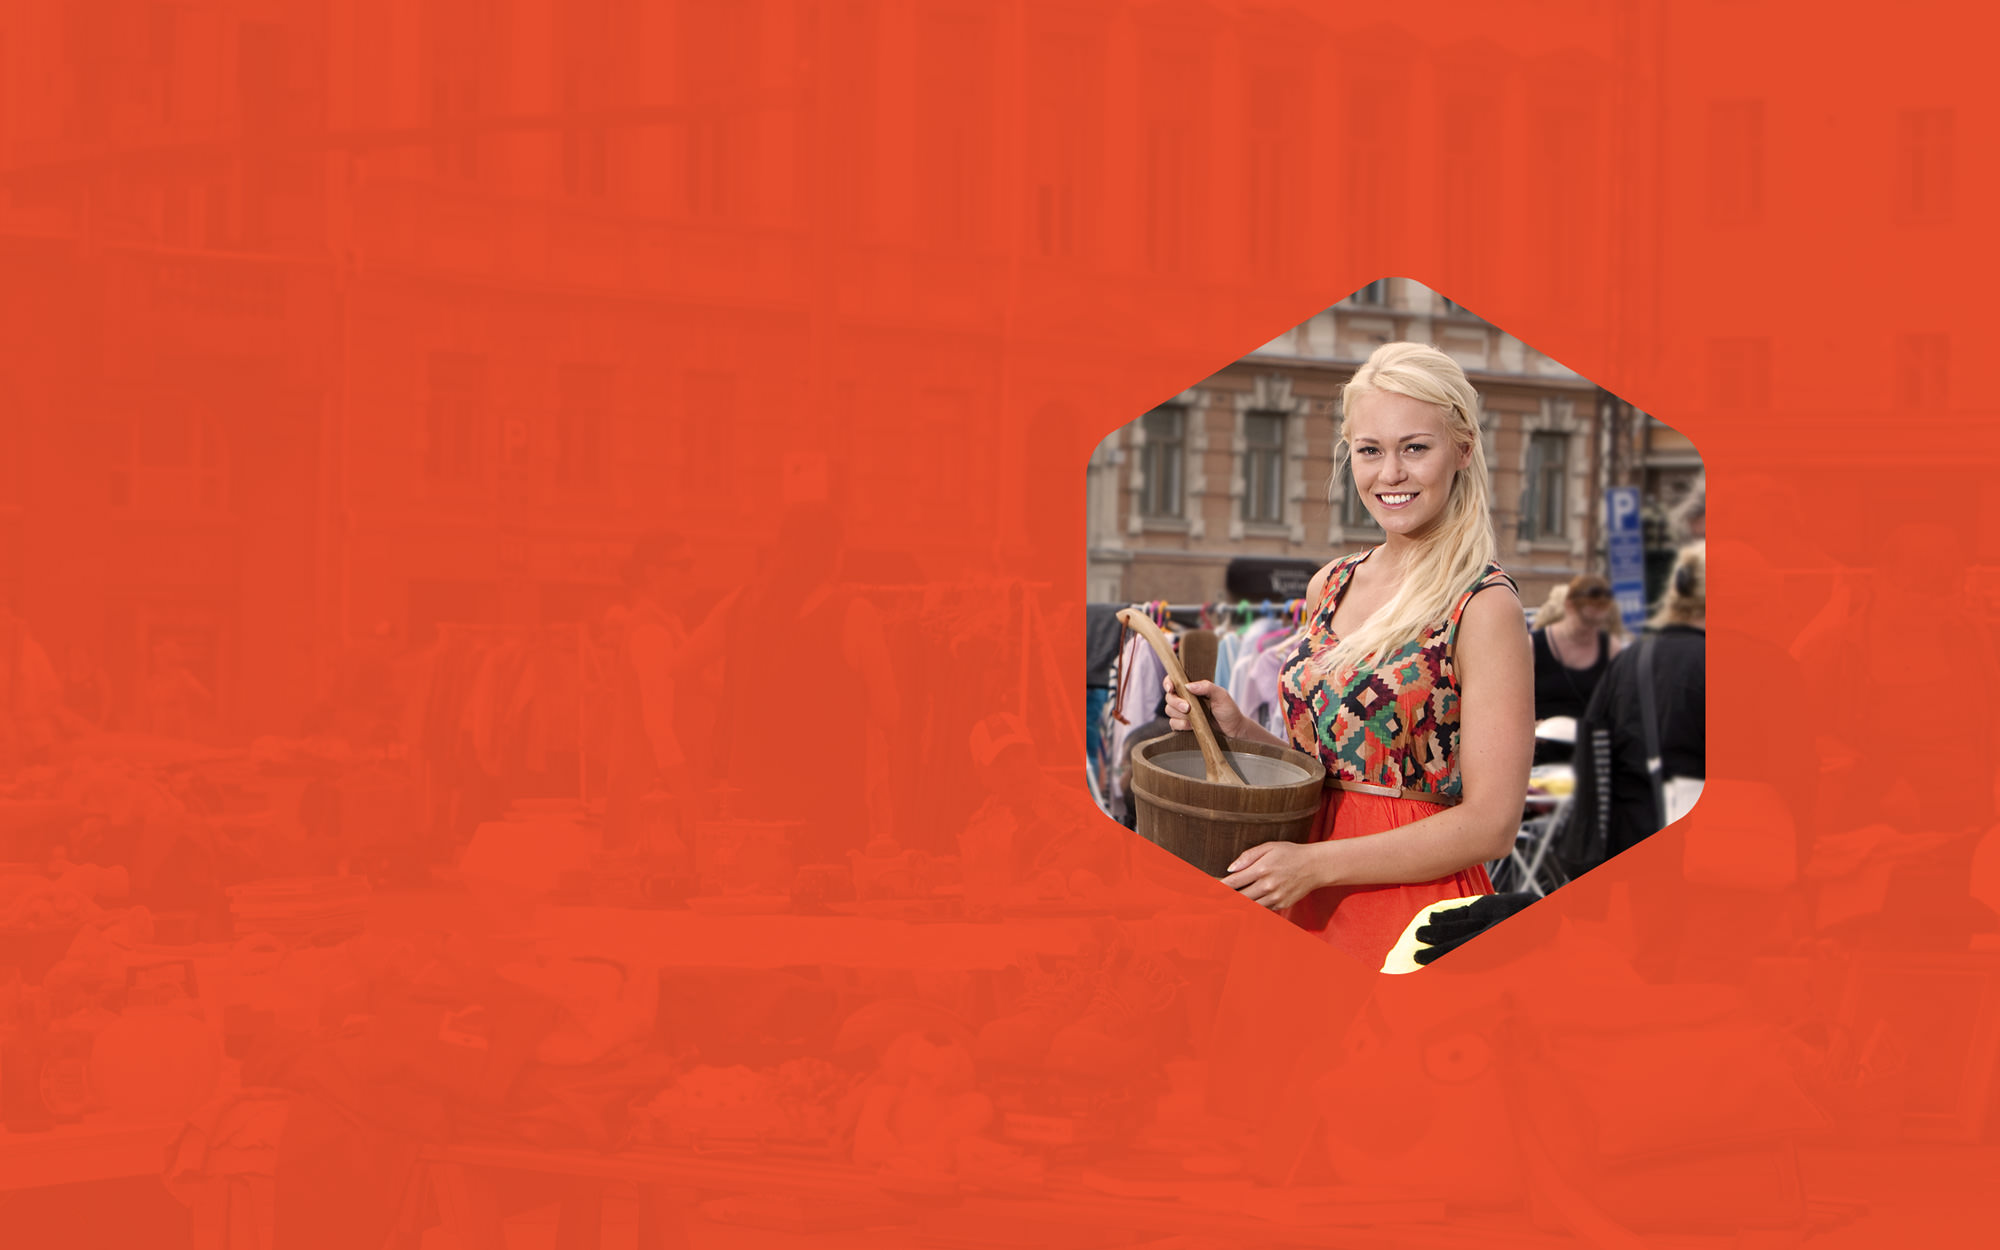
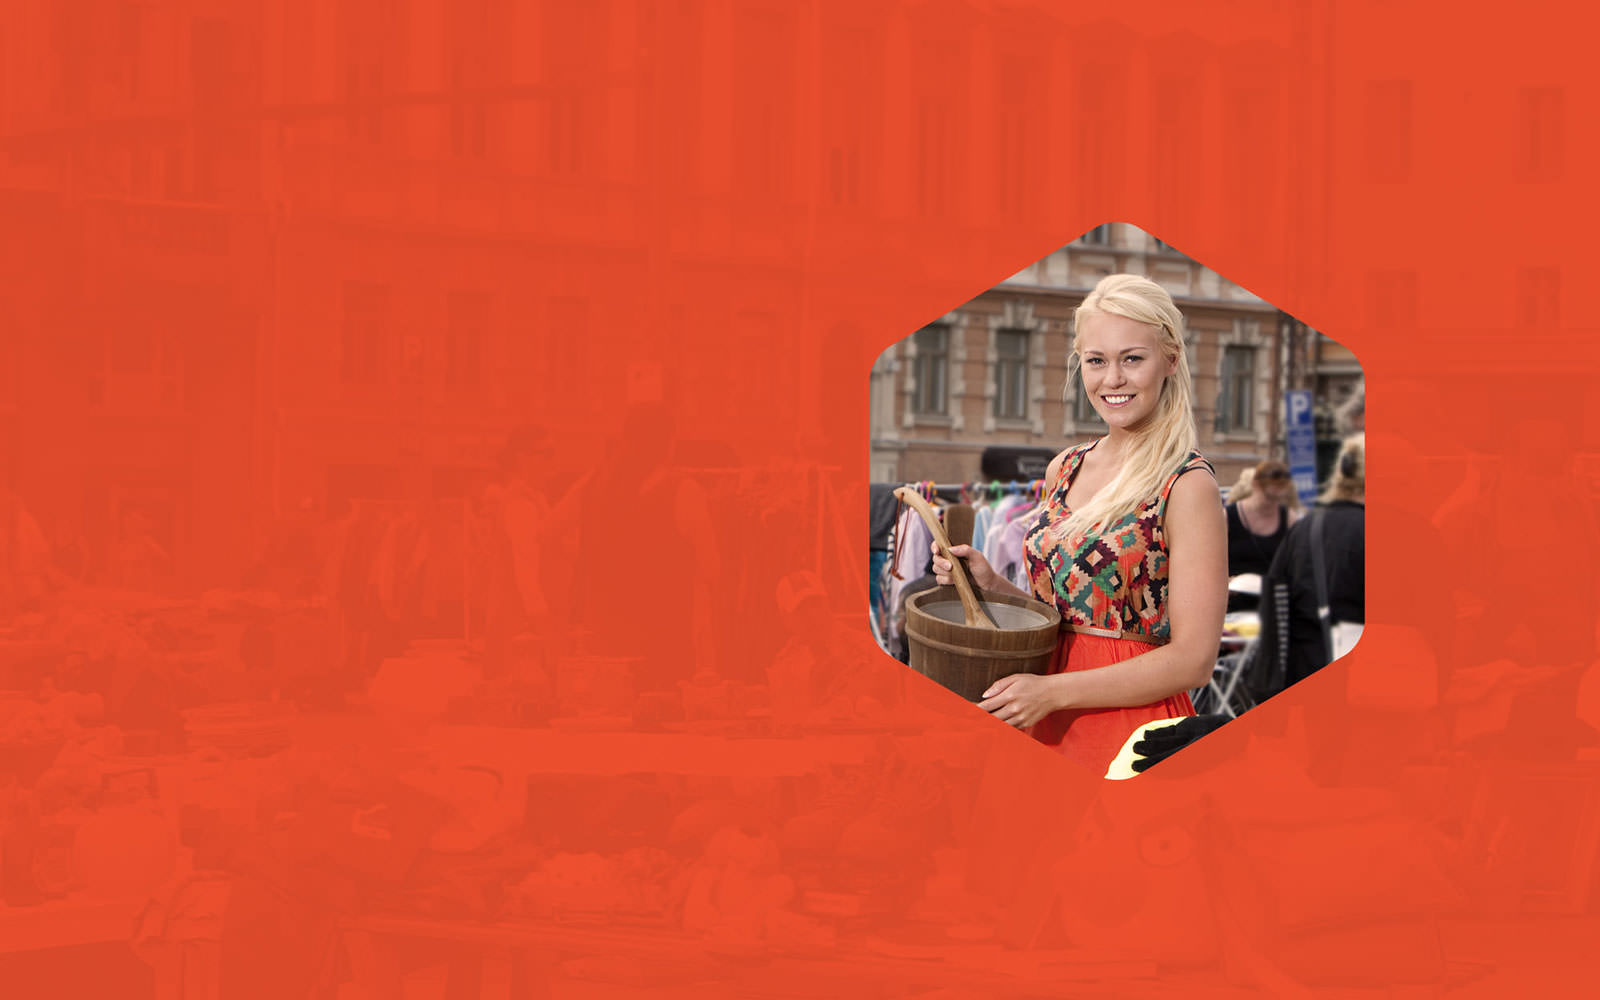
image loading fix and header animations

diff --git a/src/sass/style.scss b/src/sass/style.scss
@@ -5,6 +5,7 @@
 @import 'variables';
 @import 'mixins';
 @import 'MyFontsWebfontsKit';
+@import 'animations';
 
 body, html { height: 100%; }
 
@@ -47,6 +48,102 @@ a {
   &:hover {
     color: $blue;
   }
+}
+
+
+//////////////////////
+// HOMEPAGE / HERO //
+/////////////////////
+
+.hero .logo {
+  position: relative;
+  top: 0;
+  margin-bottom: 100px;
+}
+
+.hero {
+  position: relative;
+  width: 100%;
+  height: 100%;
+  background-color: #df492a;
+  color: $white;
+  background: url("/images/bg.hero.jpg") no-repeat center center fixed;
+  background-size: cover;
+
+  a.button.ghost {
+    font-family: Gibson-Light!important;
+    @include button($white,none,$white,$white,$blue,$blue);
+    font-size: 15px;
+    letter-spacing: 0.07em;
+    padding: 16px 26px;
+  }
+
+  a.button.white {
+    @include button($orange,$white,$white,$white,$blue,$blue);
+    font-size: 15px;
+    letter-spacing: 0.03em;
+    margin-right: 30px;
+    padding: 16px 26px;
+  }
+
+  img.crown {
+    width: 100%;
+  }
+
+  .crown-icon-wrapper {
+    // SVG image width has to be 100%, otherwis IE doesn't scale it properly, thus the wrapper
+    width: 15px;
+    display: inline-block;
+    margin-right: 7px;
+    float: none;
+    display: inline-block;
+    vertical-align: -1px;
+  }
+
+  a.login {
+    color: $white;
+    font-size: 13px;
+    opacity: 0.7;
+    @include transition(all, 0.1s, ease-in-out);
+
+    &:hover img.arrow { margin-left: 9px; }
+
+    &:hover { opacity: 1.0;}
+
+    img.arrow {
+      margin-left: 3px;
+      float: none;
+      display: inline-block;
+      width: 15px;
+      vertical-align: -3px;
+      @include transition(all, 0.1s, ease-in-out);
+    }
+  }
+
+  p {
+    @include Gibson-Regular;
+    font-size: 19px;
+    line-height: 36px;
+    margin-bottom: 55px;
+    letter-spacing: 0.02em;
+  }
+}
+
+.hero-text {
+  position:absolute;
+  top:0;
+  bottom:0;
+  left:10%;
+  right:0;
+  margin:auto;
+  height: 600px;
+
+  img { float: right; }
+}
+
+.hero-text-container {
+  max-width: 700px;
+  float: left;
 }
 
 
@@ -342,103 +439,6 @@ a.button { @include button($white, $orange, $orange, $white, $blue, $blue); }
       right: 10px; /* space between number and text */
     }
   }
-}
-
-
-
-//////////////////////
-// HOMEPAGE / HERO //
-/////////////////////
-
-.hero .logo {
-  position: relative;
-  top: 0;
-  margin-bottom: 100px;
-}
-
-.hero {
-  position: relative;
-  width: 100%;
-  height: 100%;
-  background-color: $orange;
-  color: $white;
-  background: url("/images/bg.hero.jpg") no-repeat center center fixed;
-  background-size: cover;
-
-  a.button.ghost {
-    font-family: Gibson-Light!important;
-    @include button($white,none,$white,$white,$blue,$blue);
-    font-size: 15px;
-    letter-spacing: 0.07em;
-    padding: 16px 26px;
-  }
-
-  a.button.white {
-    @include button($orange,$white,$white,$white,$blue,$blue);
-    font-size: 15px;
-    letter-spacing: 0.03em;
-    margin-right: 30px;
-    padding: 16px 26px;
-  }
-
-  img.crown {
-    width: 100%;
-  }
-
-  .crown-icon-wrapper {
-    // SVG image width has to be 100%, otherwis IE doesn't scale it properly, thus the wrapper
-    width: 15px;
-    display: inline-block;
-    margin-right: 7px;
-    float: none;
-    display: inline-block;
-    vertical-align: -1px;
-  }
-
-  a.login {
-    color: $white;
-    font-size: 13px;
-    opacity: 0.7;
-    @include transition(all, 0.1s, ease-in-out);
-
-    &:hover img.arrow { margin-left: 9px; }
-
-    &:hover { opacity: 1.0;}
-
-    img.arrow {
-      margin-left: 3px;
-      float: none;
-      display: inline-block;
-      width: 15px;
-      vertical-align: -3px;
-      @include transition(all, 0.1s, ease-in-out);
-    }
-  }
-
-  p {
-    @include Gibson-Regular;
-    font-size: 19px;
-    line-height: 36px;
-    margin-bottom: 55px;
-    letter-spacing: 0.02em;
-  }
-}
-
-.hero-text {
-  position:absolute;
-  top:0;
-  bottom:0;
-  left:10%;
-  right:0;
-  margin:auto;
-  height: 600px;
-
-  img { float: right; }
-}
-
-.hero-text-container {
-  max-width: 700px;
-  float: left;
 }
 
 
@@ -1898,7 +1898,6 @@ br.br-titlebreak {
 @media screen and (max-width: 1024px) {
 
   .hero {
-    @include transition(all, 0.2s, ease-in-out);
     background: url("/images/bg.hero.jpg") no-repeat -520px -200px;
     background-color: $orange;
 
@@ -3089,7 +3088,7 @@ br.br-titlebreak {
 
   .hero {
     background-size: cover!important;
-    background: url("/images/bg.hero.tablet.jpg") no-repeat center 10px;
+    background: url("/images/bg.hero.mobile.jpg") no-repeat center 10px;
     background-color: $orange;
 
     .logo {

diff --git a/src/sass/_mixins.scss b/src/sass/_mixins.scss
@@ -26,3 +26,44 @@
     }
 }
 
+@mixin header-animation($animation-name, $animation-duration, $animation-timing-fuction, $animation-delay) {
+  
+  -webkit-animation-name:                 $animation-name;
+  -webkit-animation-duration:             $animation-duration;
+  -webkit-animation-timing-function:      $animation-timing-fuction;
+  -webkit-animation-delay:                $animation-delay;
+  -webkit-animation-direction:            normal;
+  -webkit-animation-iteration-count:      1;
+  -webkit-animation-play-state:           running;
+  -webkit-animation-fill-mode:            forwards;
+  -webkit-backface-visibility:            hidden;
+  
+  -moz-animation-name:                    $animation-name;
+  -moz-animation-duration:                $animation-duration;
+  -moz-animation-timing-function:         $animation-timing-fuction;
+  -moz-animation-delay:                   $animation-delay;
+  -moz-animation-direction:               normal;
+  -moz-animation-iteration-count:         1;
+  -moz-animation-play-state:              running;
+  -moz-animation-fill-mode:               forwards;
+  
+  -o-animation-name:                      $animation-name;
+  -o-animation-duration:                  $animation-duration;
+  -o-animation-timing-function:           $animation-timing-fuction;
+  -o-animation-delay:                     $animation-delay;
+  -o-animation-direction:                 normal;
+  -o-animation-iteration-count:           1;
+  -o-animation-play-state:                running;
+  -o-animation-fill-mode:                 forwards;
+  
+  animation-name:                         $animation-name;
+  animation-duration:                     $animation-duration;
+  animation-timing-function:              $animation-timing-fuction;
+  animation-delay:                        $animation-delay;
+  animation-direction:                    normal;
+  animation-iteration-count:              1;
+  animation-play-state:                   running;
+  animation-fill-mode:                    forwards
+  
+}
+

diff --git a/src/sass/_animations.scss b/src/sass/_animations.scss
@@ -1,0 +1,40 @@
+@-webkit-keyframes hero-logo {
+  0%   { opacity: 0; top: -10px; }
+  100% { opacity: 1; top: 0px; }
+}
+
+@-webkit-keyframes hero-h1 {
+  0%   { opacity: 0; margin-top: -10px; }
+  100% { opacity: 1; margin-top: 0px; }
+}
+
+@-webkit-keyframes hero-p {
+  0%   { opacity: 0; margin-top: -10px;}
+  100% { opacity: 1; margin-top: 0px; }
+}
+
+@-webkit-keyframes hero-bg {
+  0%   { -webkit-transform:scale(0.9);} 
+  100% { -webkit-transform:scale(1);}
+}
+
+
+
+.hero {
+  @include header-animation(hero-bg, 0.2s, ease-out, 0.0s);
+}
+
+.hero .logo {
+  @include header-animation(hero-logo, 0.3s, ease-out, 0.2s);
+  opacity: 0;
+}
+
+.hero h1 {
+  @include header-animation(hero-h1, 0.3s, ease-out, 0.4s);
+  opacity: 0;
+}
+
+.hero p {
+  @include header-animation(hero-p, 0.3s, ease-out, 0.6s);
+  opacity: 0;
+}

diff --git a/src/html/index.html b/src/html/index.html
@@ -1,5 +1,9 @@
 <!--(bake includes/header.html title="")-->
 
+<style type="text/css">
+  .hero { background-color: #df492a;}
+</style>
+
   <!-- Header -->
 
   <header class="hero">
